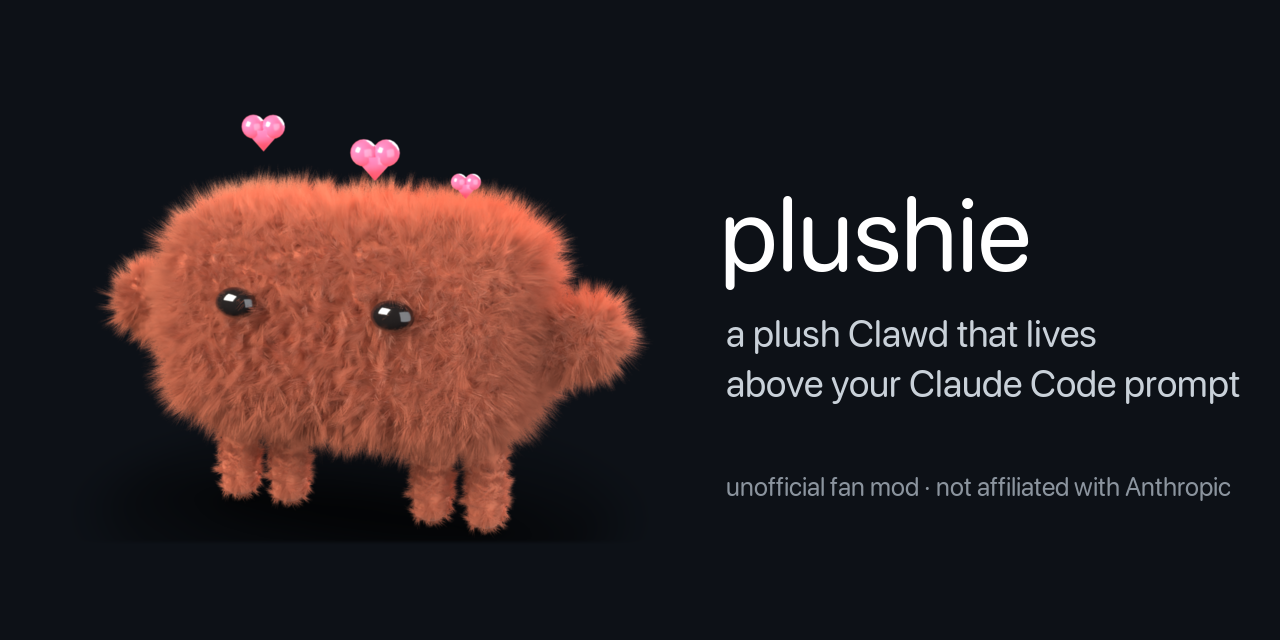
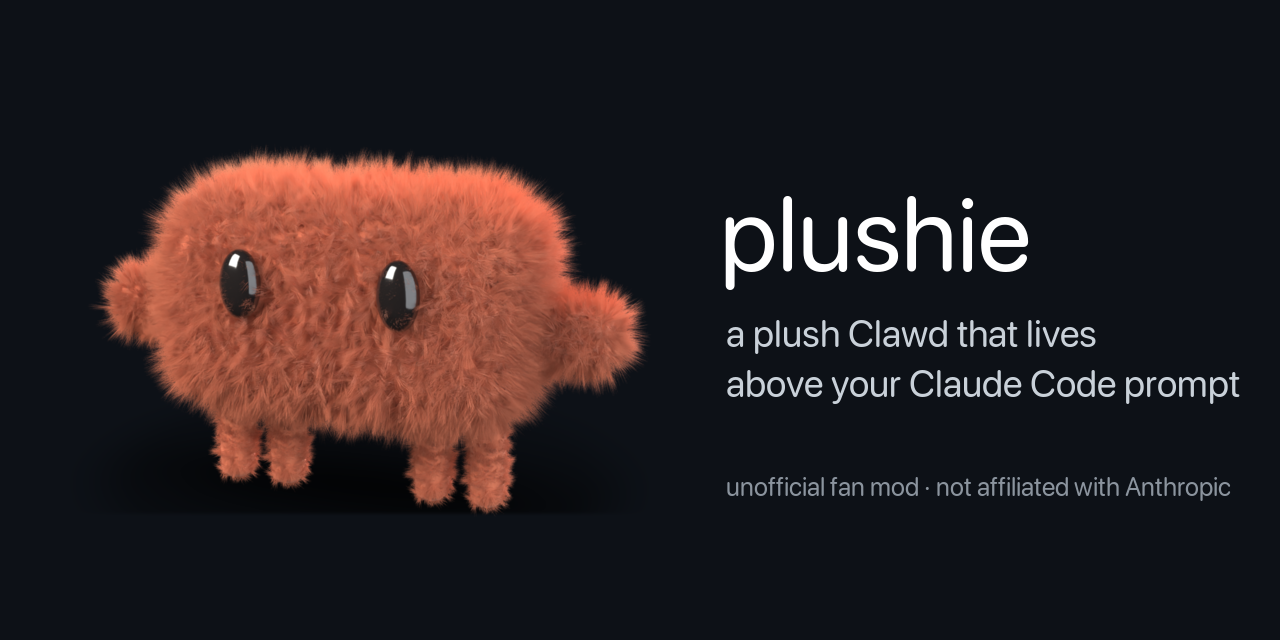
plushie is MIT, and the README opens on the demo GIF
The GIF takes the hero image's place at the top. The social card is redrawn
from an idle frame: the patted frame squeezes the bead eyes into slits,
which read flat at that size.

The license covers the code, the scripts, and the frames and sounds they
make, not the Clawd character or Claude Code, which stay Anthropic's.

Changed region(s): [[0.0625, 0.1562, 0.5, 0.8438]]

diff --git a/README.md b/README.md
@@ -1,14 +1,12 @@
 # plushie
 
-<p align="center"><img src="docs/media/plushie.png" width="420" alt="A fluffy orange plush Clawd with hearts floating above it"></p>
+<p align="center"><img src="docs/media/demo.gif" width="560" alt="Clawd being patted, holding a keyboard while Claude runs a command, then jumping when it's done"></p>
 
 A plush Clawd that lives above the Claude Code prompt and reacts to what
 Claude is doing: idles and blinks, wiggles while a turn runs, holds a little
 prop for each tool, wobbles when a tool fails or you interrupt, jumps after a
 long turn, blushes when you say thanks, dozes off when left alone. Pat it,
 or pick it up and move it.
-
-<p align="center"><img src="docs/media/demo.gif" width="560" alt="Clawd being patted, holding a keyboard while Claude runs a command, then jumping when it's done"></p>
 
 It is a Claude Code mod: frames baked in Blender, played in the terminal by
 swapping an `Image`'s source with `$.ui.blit`. Terminals with an image
@@ -82,3 +80,9 @@ claude plugin test .
 
 The tests drive every reaction through the real event that triggers it,
 each with its switch on and off.
+
+## License
+
+MIT for the code, the Blender and sound scripts, and the frames and sounds
+they make; see [LICENSE](LICENSE). The Clawd character and Claude Code are
+Anthropic's, and the license doesn't cover them.
